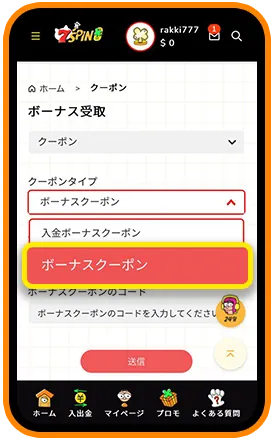
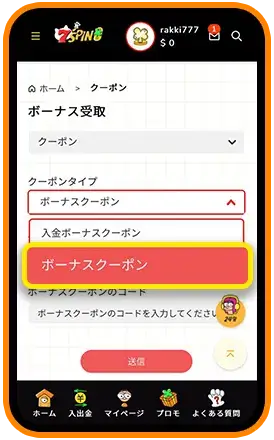
圖片簡化

diff --git a/7sipn.online/bakusai.@/NA7_LP_paraside/css/pc.css b/7sipn.online/bakusai.@/NA7_LP_paraside/css/pc.css
@@ -2,7 +2,7 @@ section{
     position: relative;
     width: 100%;
     height: 0;
-    background: url(../img_pc/NA7_LP_phone_noassets.jpg)no-repeat center/cover;
+    background: url(../img_pc/NA7_LP_phone_noassets.webp)no-repeat center/cover;
     padding-bottom: 240%;
     overflow: hidden;
 }

diff --git a/7sipn.online/bakusai.@/NA7_LP_paraside/css/mobile.css b/7sipn.online/bakusai.@/NA7_LP_paraside/css/mobile.css
@@ -2,7 +2,7 @@
     width: 56px;
 }
 section{
-    background: url(../img_phone/NA7_LP_phone_paraside_noassets.jpg)no-repeat center/cover;
+    background: url(../img_phone/NA7_LP_phone_paraside_noassets.webp)no-repeat center/cover;
     padding-bottom: 455%;
 }
 .page-1{
